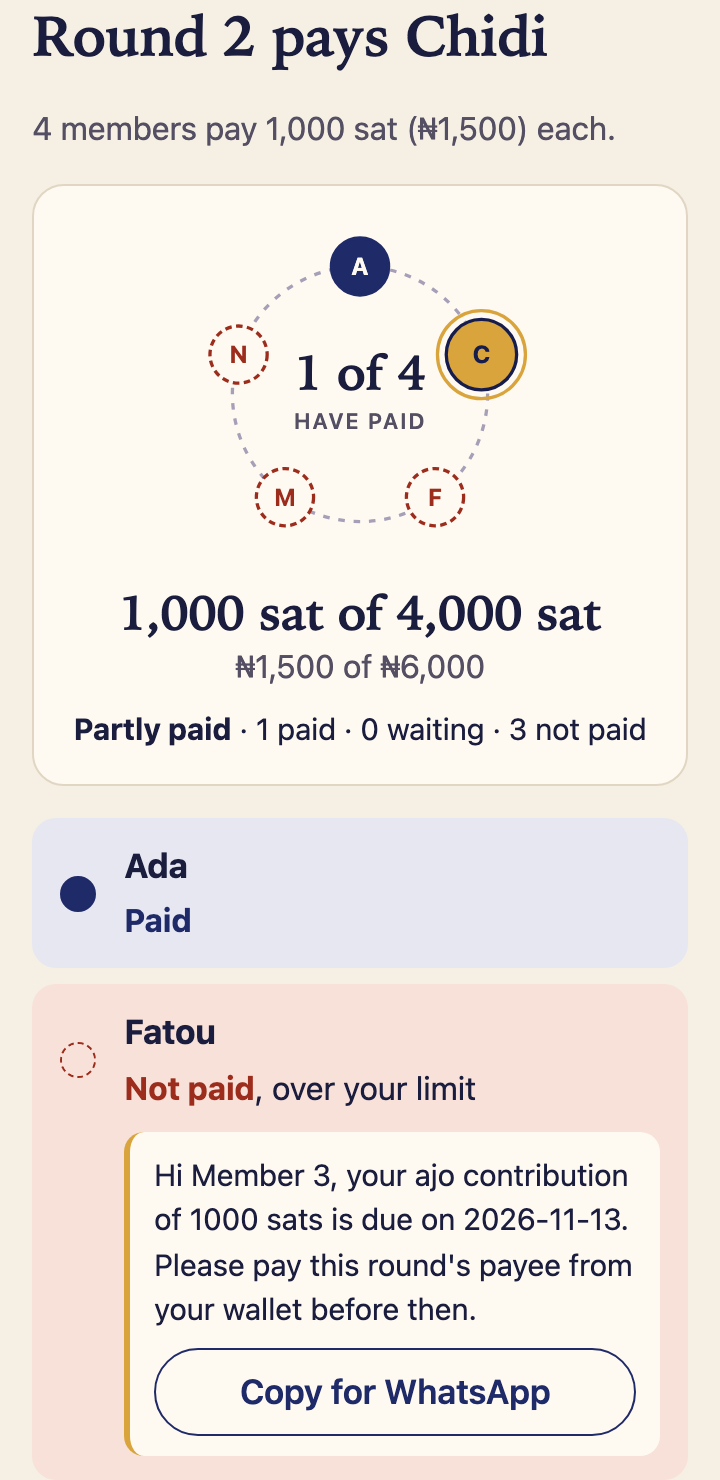
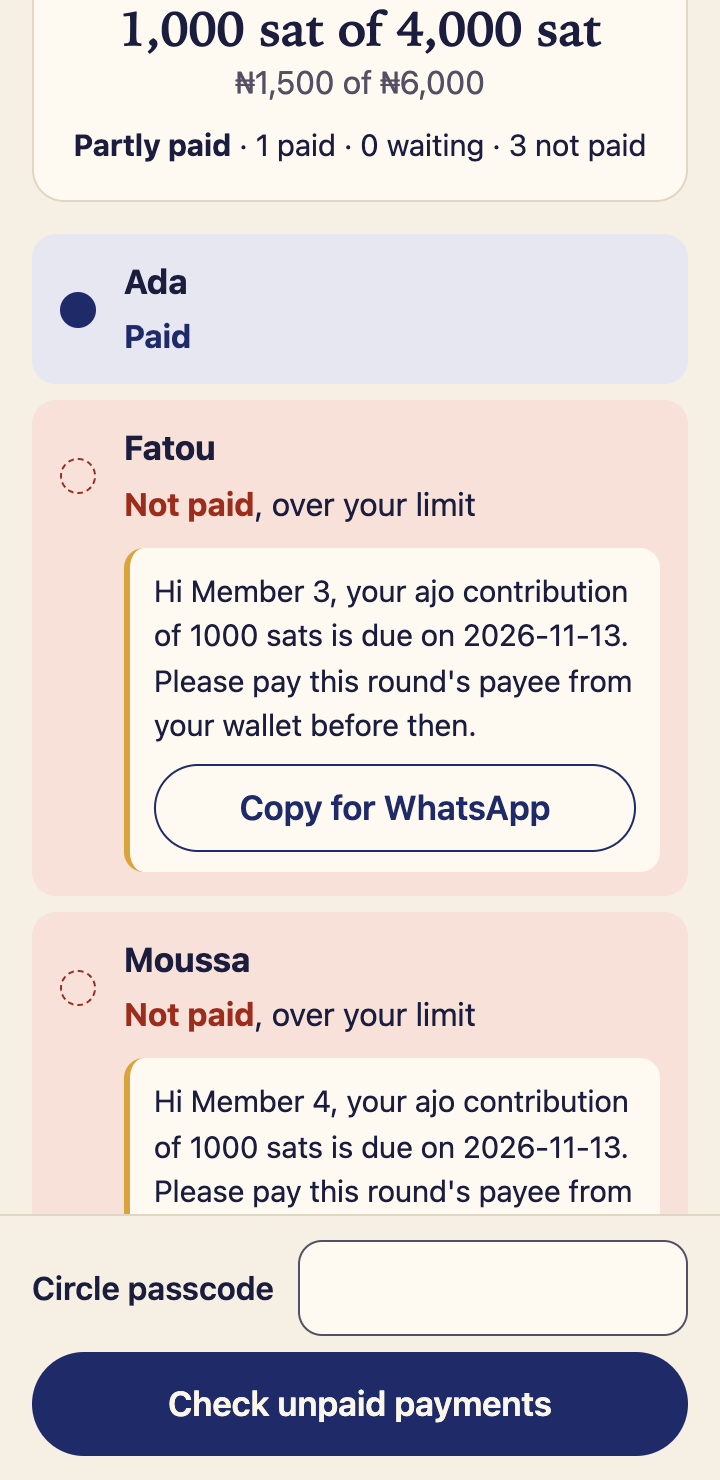
docs: retake the partial round screenshot with the Check unpaid payments bar

diff --git a/README.md b/README.md
@@ -7,7 +7,7 @@ Built for the [Dakar Bitcoin Hack 2026](https://dakar-bitcoin-hack-2026.devpost.
 <p>
 <img src="docs/media/circle.png" width="200" alt="The circle page lists five members in payout order, each with a weekly limit of 1,010 sat.">
 <img src="docs/media/round-complete.png" width="200" alt="Round 1 pays Ada. Four of four members have paid, 4,000 sat of 4,000 sat, and the round is complete.">
-<img src="docs/media/round-partial.png" width="200" alt="Round 2 pays Chidi. One of four members has paid. Fatou shows Not paid, over your limit, with a reminder to copy into WhatsApp.">
+<img src="docs/media/round-partial.png" width="200" alt="Round 2 pays Chidi, partly paid. Ada has paid. Fatou and Moussa show Not paid, over your limit, each with a reminder to copy into WhatsApp. The bar at the bottom offers Check unpaid payments.">
 </p>
 
 [docs/media/quickstart-round.mp4](docs/media/quickstart-round.mp4) records the steps below on the demo stack, from an empty circle to round 1's receipts, in 10 seconds.
